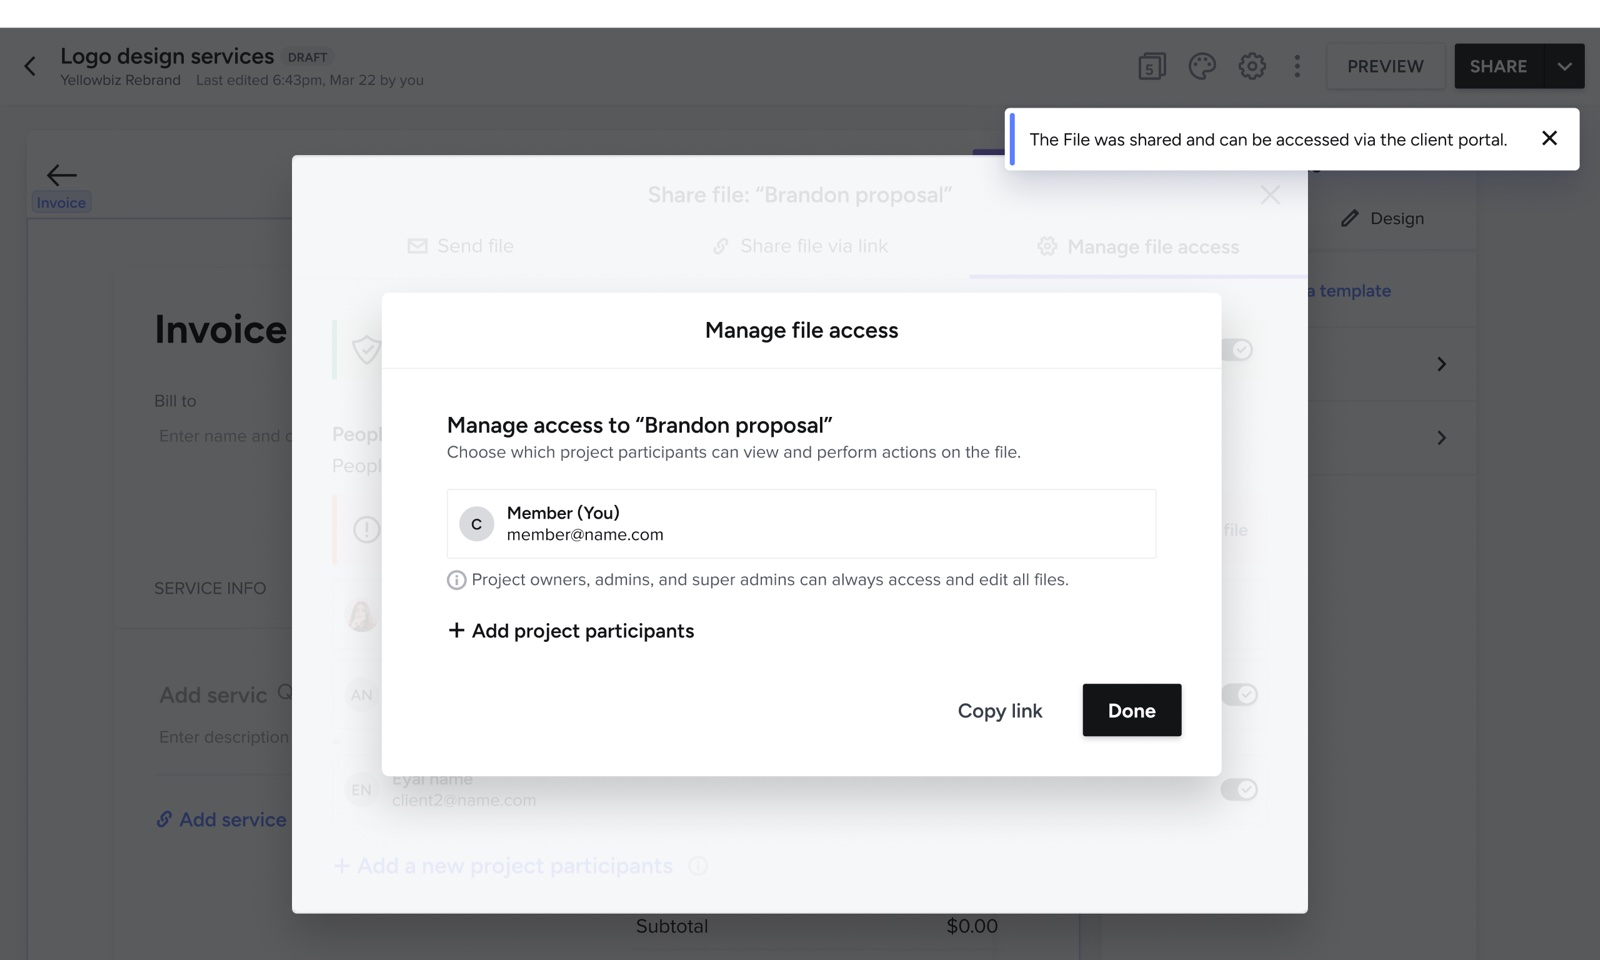
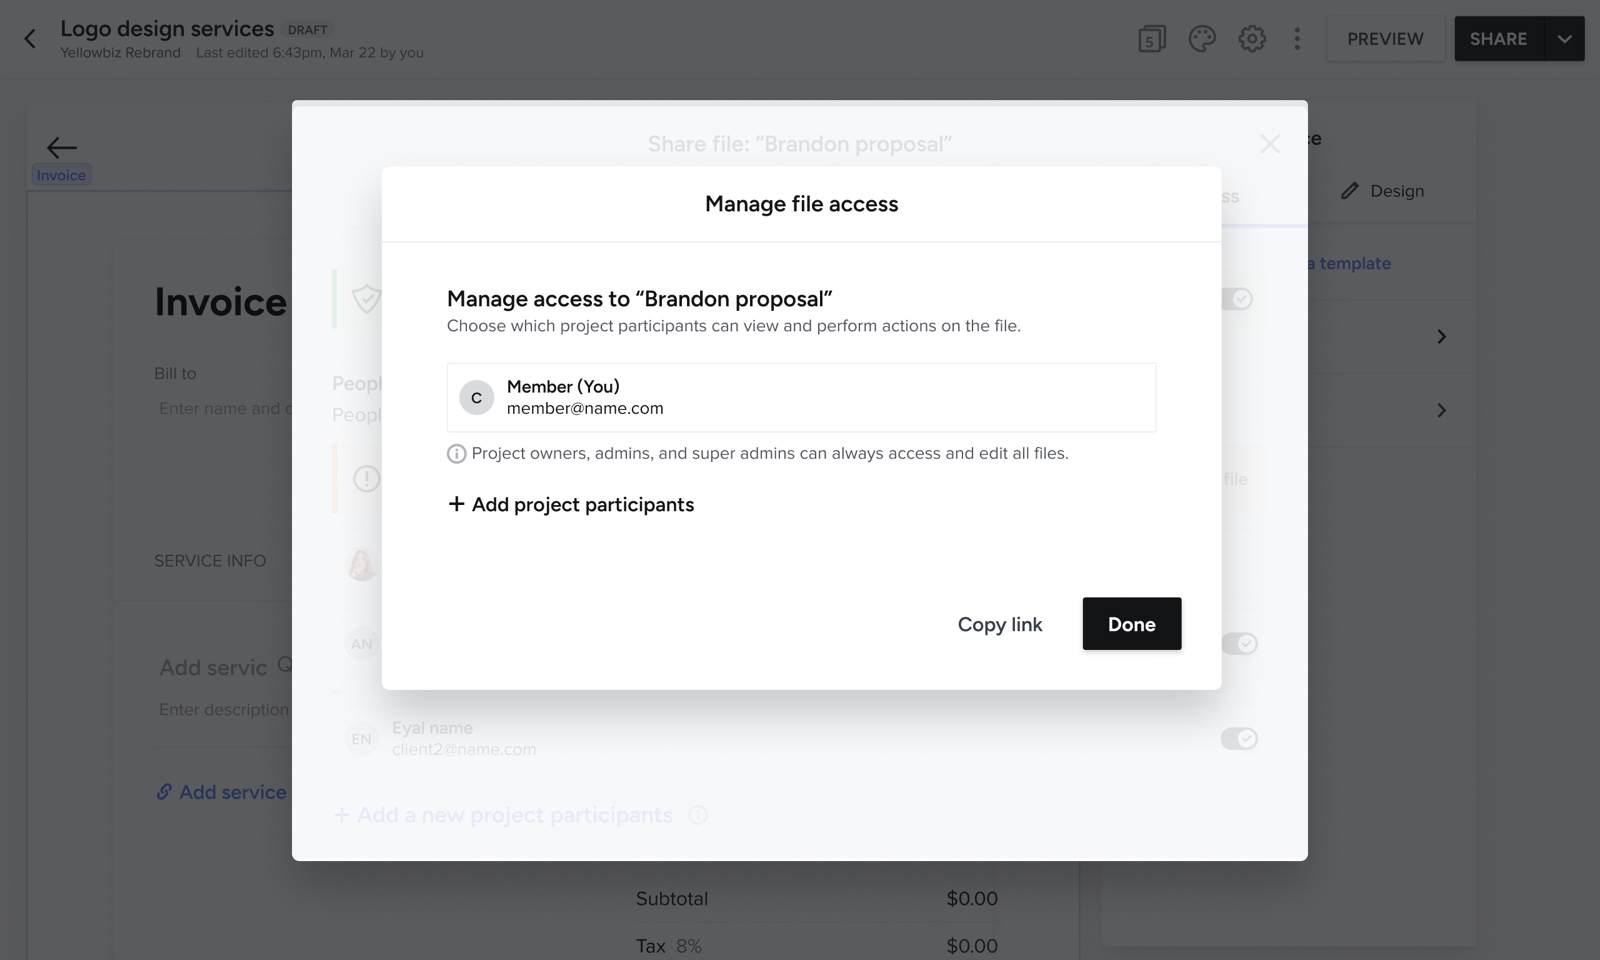
Animate Publish file click in file-access crossfade, refresh frames
- Regenerate ship-access before/after/team frames from new exports
- Add a cursor that travels to Publish file, clicks with a press
  flash, and hands off to the existing crossfade into the published
  state; hidden under prefers-reduced-motion

diff --git a/Case - Selective Communication.dc.html b/Case - Selective Communication.dc.html
@@ -44,6 +44,8 @@
     .fte-cursor{animation:fte-cursor 10.5s infinite}
     .fte-press{animation:fte-press 10.5s infinite}
     .xfade .xf-b{animation:xfade 9s infinite}
+    .xfade .xf-cursor{animation:xf-cursor 9s infinite}
+    .xfade .xf-press{animation:xf-press 9s infinite}
     .ship-track-5{animation:ship-slide5 16s infinite}
     .ship-track-4{animation:ship-slide4 13s infinite}
   }
@@ -97,6 +99,26 @@
   .xfade{position:relative;overflow:hidden;border:1px solid #14141216;border-radius:8px}
   .xfade picture,.xfade img{display:block;width:100%;height:auto}
   .xfade .xf-b{position:absolute;inset:0;opacity:0}
+  .xf-cursor{position:absolute;left:68.25%;top:41.35%;width:3.2%;transform-origin:0 0;opacity:0;filter:drop-shadow(0 2px 3px #14141252)}
+  .xf-cursor svg{display:block;width:100%;height:auto}
+  .xf-press{position:absolute;left:64.4%;top:39.2%;width:7.9%;height:3.9%;border-radius:4px;background:#3b4ce0;opacity:0}
+  /* Cursor travels to Publish file, clicks at 37.5%, xfade reveals the published state at 42-50% */
+  @keyframes xf-cursor{
+    0%{transform:translate(130%,870%) scale(1);opacity:0}
+    6%{opacity:0}
+    12%{opacity:1}
+    14%{transform:translate(130%,870%) scale(1);animation-timing-function:cubic-bezier(.22,.7,.28,1)}
+    30%,36%{transform:translate(0,0) scale(1)}
+    37.5%{transform:translate(3%,4%) scale(.82)}
+    39%{transform:translate(0,0) scale(1)}
+    52%{transform:translate(0,0) scale(1);opacity:1}
+    62%,100%{transform:translate(130%,870%) scale(1);opacity:0}
+  }
+  @keyframes xf-press{
+    0%,36.9%{opacity:0}
+    37.5%{opacity:.14}
+    40.5%,100%{opacity:0}
+  }
   .ship-stage{background:#e9e7e0;border:1px solid #14141216;border-radius:10px;padding:clamp(22px,4.5vw,48px) clamp(16px,3vw,28px);display:flex;justify-content:center;align-items:center;gap:clamp(20px,5vw,52px);flex-wrap:wrap}
   .ship-phone{position:relative;width:min(100%,248px);aspect-ratio:750/1624;border-radius:11px;overflow:hidden;background:#fff;box-shadow:0 20px 46px #1414121f,0 2px 6px #14141214}
   .ship-track{display:flex;height:100%;will-change:transform}
@@ -235,13 +257,15 @@
       </div>
       <p style="font:400 12px/1.5 'IBM Plex Mono',monospace;color:#717684;margin:12px 2px 30px">SHIPPED, FEED: every message starts with “Send to”. Pick recipients from the project's participants, or add someone new without leaving the composer.</p>
 
-      <div class="xfade" style="aspect-ratio:1600/960" role="img" aria-label="The Manage file access dialog before and after sharing: first over a draft file with a prompt to publish it, then after sharing, with a confirmation that the file is live in the client portal.">
+      <div class="xfade" style="aspect-ratio:1600/960" role="img" aria-label="The Manage file access dialog before and after sharing: a cursor clicks Publish file on a draft, and the dialog switches to the shared state where the file is live in the client portal.">
         <picture><source srcset="assets/selective-communication/ship-access-before.webp" type="image/webp"><img src="assets/selective-communication/ship-access-before.jpg" loading="lazy" alt="" width="1600" height="960"></picture>
         <picture class="xf-b"><source srcset="assets/selective-communication/ship-access-after.webp" type="image/webp"><img src="assets/selective-communication/ship-access-after.jpg" loading="lazy" alt="" width="1600" height="960"></picture>
+        <span class="xf-press" aria-hidden="true"></span>
+        <span class="xf-cursor" aria-hidden="true"><svg viewBox="0 0 24 24" focusable="false"><path d="M3 2 L3 20 L8 15.4 L11.5 22 L14.6 20.4 L11.1 14 L17.6 14 Z" fill="#fbfbf9" stroke="#121210" stroke-width="1.5" stroke-linejoin="round"></path></svg></span>
       </div>
       <p style="font:400 12px/1.5 'IBM Plex Mono',monospace;color:#717684;margin:12px 2px 30px">SHIPPED, FILE ACCESS: the same dialog before and after publishing. A draft isn't visible to anyone yet; once shared, the file is live in the client portal.</p>
 
-      <div class="zoom" style="width:100%;overflow:hidden;border:1px solid #14141216;border-radius:8px"><picture style="width:100%;display:block"><source srcset="assets/selective-communication/ship-access-team.webp" type="image/webp"><img src="assets/selective-communication/ship-access-team.jpg" loading="lazy" alt="The shipped Manage file access dialog with multiple participants: two clients and five team members, each with their own visibility toggle; owner, super admin, and admin roles locked to always keep access" style="width:100%;display:block"></picture></div>
+      <div class="zoom" style="width:100%;overflow:hidden;border:1px solid #14141216;border-radius:8px"><picture style="width:100%;display:block"><source srcset="assets/selective-communication/ship-access-team.webp" type="image/webp"><img src="assets/selective-communication/ship-access-team.jpg" loading="lazy" alt="The shipped Manage file access dialog with multiple participants: two clients and two team members, each with their own visibility toggle; the company owner's access locked on while a moderator can be toggled" style="width:100%;display:block"></picture></div>
       <p style="font:400 12px/1.5 'IBM Plex Mono',monospace;color:#717684;margin:12px 2px 30px">SHIPPED, TEAMS: per-participant visibility, one toggle per person, while owners, admins, and super admins always keep access.</p>
 
       <div class="ship-stage">
